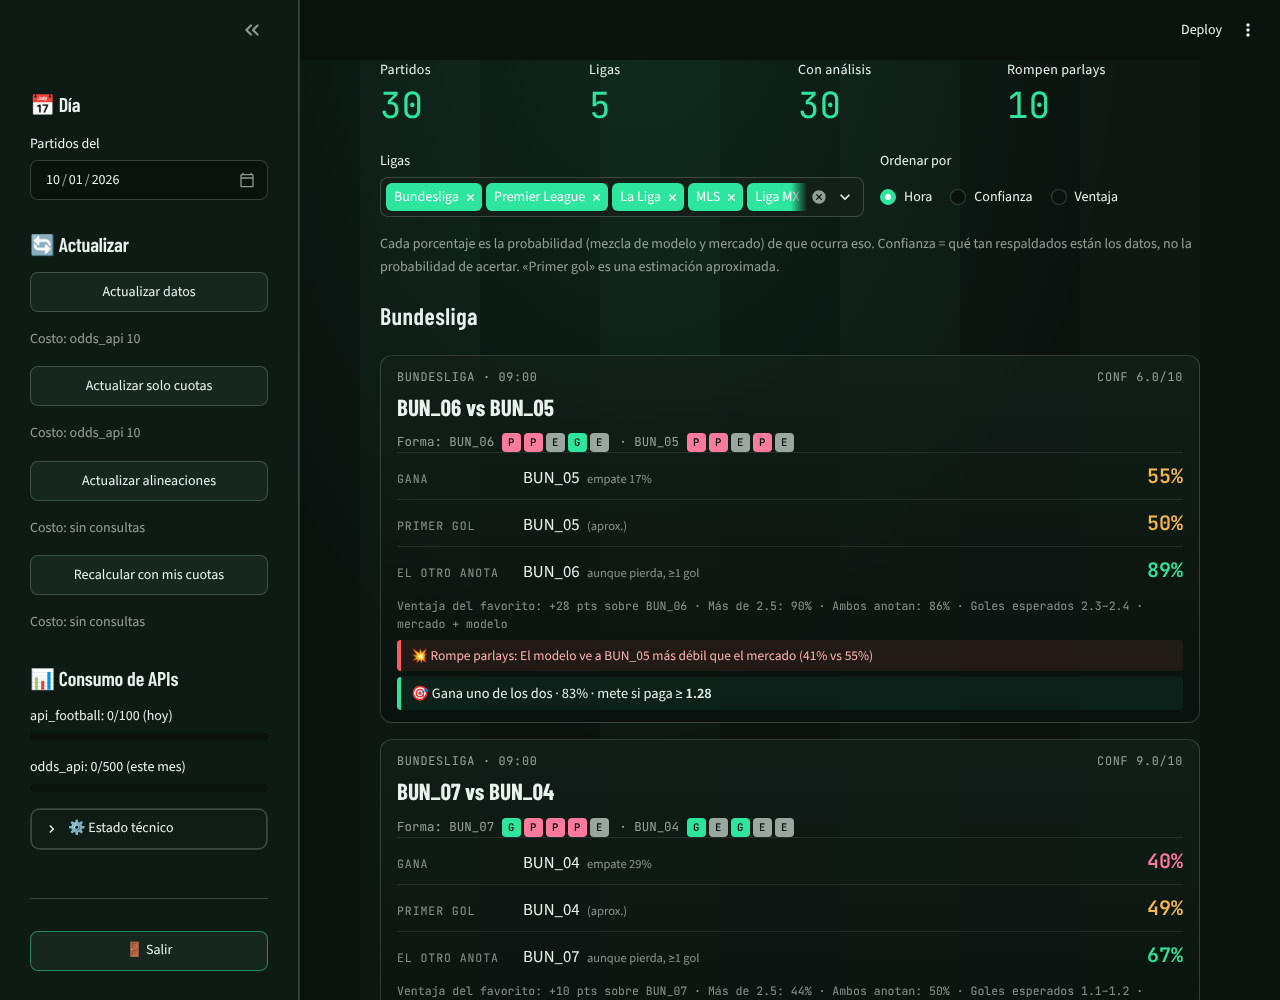
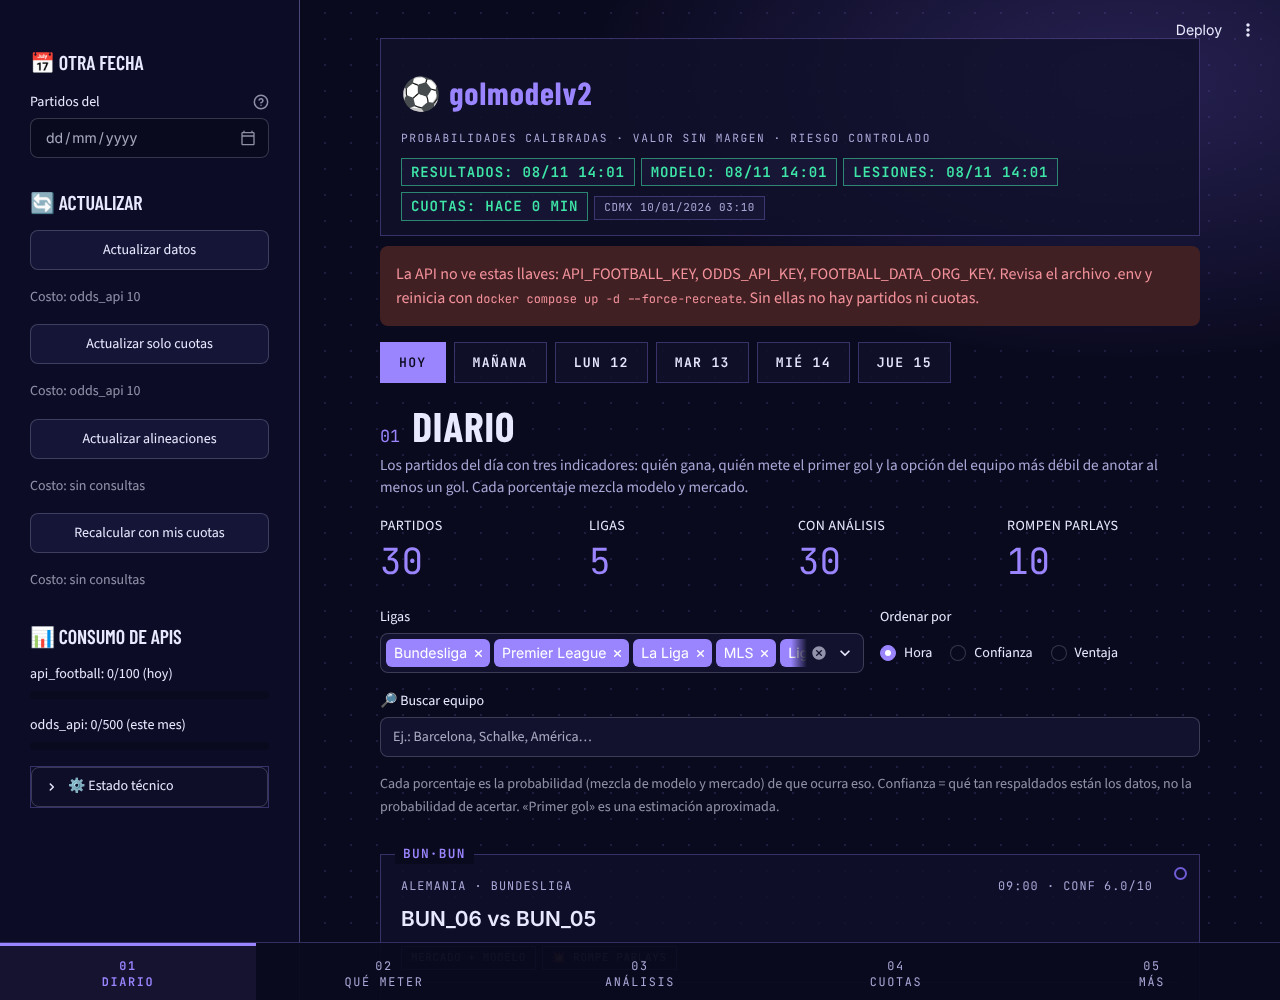
Cuotas de 1.00 ya no tumban la etapa de cuotas; capturas del rediseño; documentación
Claude-Session: https://claude.ai/code/session_016mNWLH4QFSQbbDwYkYNu95

diff --git a/tests/test_parsers.py b/tests/test_parsers.py
@@ -378,3 +378,18 @@ def test_cuotas_csv_ignoran_celdas_con_texto():
                         "PSH": "x", "PSD": 3.4, "PSA": "-"}])
     cuotas = cuotas_desde_df(df, cierre=False)
     assert [c.cuota for c in cuotas] == [3.4]
+
+
+def test_cuotas_de_1_punto_00_se_descartan_sin_romper_el_lote():
+    """Caso real: The Odds API devolvió una cuota de 1.000 (mercado suspendido) y tumbó toda la etapa de cuotas."""
+    from unittest.mock import MagicMock
+    from golmodel import repositorio as repo
+    cur = MagicMock()
+    conn = MagicMock()
+    conn.cursor.return_value.__enter__.return_value = cur
+    lote = repo.insertar_cuotas(conn, 1, 1, [("1X2:1", 1.0), ("1X2:X", 3.4), ("1X2:2", 0.98)], "actual", "odds_api",
+                                datetime(2026, 11, 8, tzinfo=timezone.utc))
+    filas = cur.executemany.call_args[0][1]
+    assert lote is not None and [f[2:4] for f in filas] == [("1X2:X", 3.4)]
+    assert repo.insertar_cuotas(conn, 1, 1, [("1X2:1", 1.0)], "actual", "odds_api",
+                                datetime(2026, 11, 8, tzinfo=timezone.utc)) is None

diff --git a/src/golmodel/repositorio.py b/src/golmodel/repositorio.py
@@ -193,6 +193,9 @@ def nombres_equipos(conn) -> dict[str, str]:
 
 def insertar_cuotas(conn, partido_id: int, casa: int, filas: list[tuple[str, float]], tipo: str, fuente: str,
                     capturada_en: datetime) -> uuid.UUID | None:
+    # Una cuota decimal válida es > 1.0. Algunas casas publican 1.00 (mercado cerrado/suspendido): se descartan
+    # solo esas filas; antes una sola tumbaba toda la etapa de cuotas.
+    filas = [(s, c) for s, c in filas if c is not None and float(c) > 1.0]
     if not filas:
         return None
     lote = uuid.uuid4()

diff --git a/docs/operacion.md b/docs/operacion.md
@@ -145,3 +145,14 @@ python scripts/cargar_historico.py --temporadas 5 --sin-xg
 ```
 5. En la app: **Datos → Actualizar datos** y luego **Qué meter**.
 Notas: el plan `starter` del servicio y el de la base son de pago (revisa precios en Render); el plan gratuito duerme el servicio y apaga el worker de cierre, así que no se recomienda. Datos reales = tus llaves corriendo allá.
+
+## 15. Navegación, diagnóstico y validaciones
+**Pantalla.** Arriba eliges el día (HOY, MAÑANA, LUN 12…; «Otra fecha» en la barra lateral). Abajo, la barra numerada: 01 DIARIO · 02 QUÉ METER · 03 ANÁLISIS · 04 CUOTAS (parlay con tus cuotas / capturar) · 05 MÁS (CLV, guía, datos). En el Diario hay buscador de equipo.
+
+**Diagnóstico (solo lectura).** El servicio `golmodelv2-diag` expone consultas fijas protegidas con `DIAG_TOKEN`: `/diag/resumen`, `/diag/partido?q=`, `/diag/calibracion`, `/diag/alpha`, `/diag/panel`, `/diag/etapas`, `/diag/validar_prior`. No acepta SQL ni muestra llaves. Sin `DIAG_TOKEN` responde 503.
+
+**Prior de ascendidos (validado con datos reales).** 1,000 partidos con un ascendido, cortes 1-oct y 1-dic de 2023 a 2026, sin look-ahead. Log-loss 1X2 del modelo solo: sin prior 0.9808; con prior (l2=8) 0.9759, diferencia −0.0049, IC95% [−0.011, +0.002]. **No concluyente**, por eso sigue apagado (`modelo.prior_ascendidos: ninguno`). Mientras el α de 1X2 sea 0 (la decisión es el mercado), no cambia ninguna sugerencia.
+
+**El modelo no le gana al mercado en 1X2** (503 partidos): log-loss 0.9728 vs 0.9607 del mercado sin margen; α óptimo = 0. Hoy la probabilidad de decisión de 1X2 es la del mercado; el valor sale de comparar cuotas entre casas.
+
+**Pausa de selecciones.** Si de repente casi no hay partidos próximos en varias ligas, probablemente es fecha FIFA: revisa `/diag/etapas` (devuelve 200 con 0 programados).
